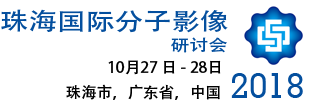
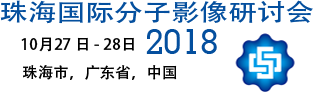
修改了标准距离等（手机bug存在）

diff --git a/static/css/style.css b/static/css/style.css
@@ -56,24 +56,24 @@ h1,h2{
 .logo1{
     /*background: lemonchiffon;*/
     position: absolute;
-    left:0;
-    top:0;
-    width: 285px;
-    height:285px;
-    margin-left: -45px;
-    margin-top: -45px;
+    left: 30px;
+    top:30px;
+    width: 150px;
+    height:150px;
 }
 
 .logo1>img{
     width:100%;
     height:100%;
+
 }
 
 .logo2{
     /*background: lawngreen;*/
     position: absolute;
-    left:175px;
-    top:0;
+    left:180px;
+    top: 48px;
+    /*width: 10px;*/
 }
 
 .navigator{
@@ -172,12 +172,15 @@ h1,h2{
 .content-main{
     /*background: yellowgreen;*/
     width: 700px;
+    padding-top: 20px;
+    padding-bottom: 50px;
     /*height: 100%;*/
+    border-right: 2px solid #a1a1a1;
 }
 
 .content-item{
     /*background: cadetblue;*/
-    padding: 20px 20px;
+    padding: 20px 40px 20px 20px;
 }
 
 .content-item>h1{
@@ -191,18 +194,17 @@ h1,h2{
 }
 
 .content-item>h2{
-    margin-top: 10px;
+    margin-top: 30px;
 }
 
-.advertisment{
+.advertisment {
     position: absolute;
 
     right: 0;
     top: 0;
-    width:300px;
+    width: 300px;
     /*height:100%;*/
     /*background: orangered;*/
-    border-left: 2px solid #a1a1a1;
 }
 
 .advertisment .example{
@@ -317,6 +319,10 @@ h1,h2{
     font-size: 18px;
     color: #a1a1a1;
 }
+
+/*.footer-content a{*/
+    /*!*text-decoration: none;*!*/
+/*}*/
 
 
 

diff --git a/templates/base.html b/templates/base.html
@@ -11,7 +11,7 @@
 <body>
 <div class="ban-top">
     <div class="ban-top-content">
-        Medical Conference
+       珠海国际分子影像研讨会
     </div>
 </div>
 
@@ -54,7 +54,7 @@
             <hr/>
             <p>
                 联系人：郑晓琴，向韧<br/>
-                联系电话：0756-2528613,15812748023，18218939257<br/>
+                联系电话：0756-2528613，15812748023，18218939257<br/>
                 电子邮箱：sysumi_zhuhai@163.com<br/>
             </p>
         </div>
